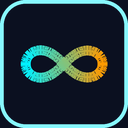
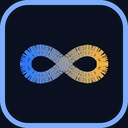
Add extension_signals DB table, icon32.png, /api/v1/signals/extension-ingest, and refresh ZIP package

Changed region(s): [[0.0, 0.0, 1.0, 1.0], [0.1562, 0.3438, 0.875, 0.6562]]

diff --git a/chrome-extension/content.js b/chrome-extension/content.js
@@ -37,18 +37,20 @@
       company: company || domain,
       event_type: eventType || "CHROME_DOMAIN_INTERCEPT",
       url: window.location.href,
-      intent_score: intentScore || 95
+      timestamp: new Date().toISOString(),
+      intent_score: intentScore || 95,
+      source: "chrome_extension"
     };
 
     try {
-      let res = await fetch(`${API_HOST}/api/v1/signals/capture-extension`, {
+      let res = await fetch(`${API_HOST}/api/v1/signals/extension-ingest`, {
         method: 'POST',
         headers: { 'Content-Type': 'application/json' },
         body: JSON.stringify(payload)
       }).catch(() => null);
 
       if (!res || !res.ok) {
-        res = await fetch(`${LOCAL_HOST}/api/v1/signals/capture-extension`, {
+        res = await fetch(`${LOCAL_HOST}/api/v1/signals/extension-ingest`, {
           method: 'POST',
           headers: { 'Content-Type': 'application/json' },
           body: JSON.stringify(payload)
@@ -104,7 +106,7 @@
             <button class="quanta-close-btn" id="quanta-close">&times;</button>
           </div>
           <div class="quanta-badge-body" style="color: #94A3B8;">
-            No QUANTA signals detected for <strong>${domain}</strong> yet.
+            No QUANTA signals for this domain yet.
           </div>
           <div class="quanta-badge-actions">
             <button class="quanta-btn-track" id="quanta-track-domain">
@@ -168,7 +170,7 @@
     const domain = getNormalizedDomain();
     if (!domain) return;
 
-    // Check if domain is in ignore list (e.g. google, bing, github)
+    // Check if domain is in ignore list (e.g. google, bing, yahoo)
     const ignoreList = ['google.com', 'bing.com', 'yahoo.com', 'quanta.virtusol.com'];
     if (ignoreList.some(i => domain.includes(i))) {
       return;

diff --git a/backend/app/main.py b/backend/app/main.py
@@ -9,8 +9,8 @@ from slowapi import Limiter, _rate_limit_exceeded_handler
 from slowapi.util import get_remote_address
 from slowapi.errors import RateLimitExceeded
 
-from app.models import LeadCreate, LeadResponse, SignalItem, AlertTestResponse, ChromeExtensionEvent
-from app.crm import init_db, get_db, create_crm_lead, get_all_leads
+from app.models import LeadCreate, LeadResponse, SignalItem, AlertTestResponse, ChromeExtensionEvent, ExtensionIngestPayload
+from app.crm import init_db, get_db, create_crm_lead, get_all_leads, create_extension_signal
 from app.signals import generate_live_signals, dispatch_high_intent_alerts
 from app.alerts import send_slack_alert
 from app.config import SLACK_WEBHOOK_URL
@@ -127,6 +127,49 @@ def get_intent_signals(domain: Optional[str] = None):
     """
     return generate_live_signals(domain=domain)
 
+@app.post("/api/v1/signals/extension-ingest")
+async def extension_ingest(
+    request: Request,
+    payload: ExtensionIngestPayload,
+    background_tasks: BackgroundTasks,
+    db: Session = Depends(get_db)
+):
+    """
+    Ingests Chrome extension signals directly into extension_signals table in quanta_crm.db
+    and triggers real-time Slack alerts for high intent events.
+    """
+    db_signal = create_extension_signal(db, payload)
+    
+    # Also record into leads table for CRM visibility
+    client_ip = request.headers.get("X-Forwarded-For") or request.client.host
+    if "," in client_ip:
+        client_ip = client_ip.split(",")[0].strip()
+    clean_domain = payload.domain.replace("www.", "").lower()
+    lead_data = LeadCreate(
+        name="Chrome Extension Intercept",
+        email=f"intent@{clean_domain}",
+        company=payload.company or f"Domain ({payload.domain})",
+        role="Active Extension Prospect",
+        website=payload.url or f"https://{payload.domain}",
+        country="Extension Stream",
+        phone=None,
+        problem_statement=f"Chrome Extension captured active intent on '{payload.domain}' [{payload.event_type}]",
+        struggle=f"Extension signal capture on {payload.domain}"
+    )
+    await create_crm_lead(db, lead_data, client_ip, request.headers.get("User-Agent", "QUANTA Chrome Extension"))
+
+    if payload.intent_score >= 90:
+        background_tasks.add_task(
+            send_slack_alert,
+            company=payload.company or f"Target Domain ({payload.domain})",
+            event_type=payload.event_type,
+            description=f"🎯 Chrome Extension captured intent on target domain '{payload.domain}' URL: {payload.url or 'N/A'}",
+            intent_score=payload.intent_score,
+            source_url=payload.url or f"https://{payload.domain}"
+        )
+        
+    return {"status": "ingested", "signal_id": db_signal.id, "domain": payload.domain}
+
 @app.post("/api/v1/signals/capture-extension")
 async def capture_extension_event(
     request: Request,
@@ -138,38 +181,15 @@ async def capture_extension_event(
     Ingests Chrome extension domain intercepts directly into quanta_crm.db
     and triggers real-time Slack alerts for high intent events.
     """
-    client_ip = request.headers.get("X-Forwarded-For") or request.client.host
-    if "," in client_ip:
-        client_ip = client_ip.split(",")[0].strip()
-    
-    comp_name = event.company or f"Target Domain ({event.domain})"
-    clean_domain = event.domain.replace("www.", "").lower()
-    
-    lead_data = LeadCreate(
-        name="Chrome Extension Intercept",
-        email=f"intent@{clean_domain}",
-        company=comp_name,
-        role="Active Prospect",
-        website=event.url or f"https://{event.domain}",
-        country="Extension Stream",
-        phone=None,
-        problem_statement=f"Chrome Extension captured real-time intent on '{event.domain}' [{event.event_type}]",
-        struggle=f"Extension signal capture on {event.domain}"
+    payload = ExtensionIngestPayload(
+        domain=event.domain,
+        url=event.url,
+        event_type=event.event_type,
+        intent_score=event.intent_score,
+        source="chrome_extension",
+        company=event.company
     )
-    
-    db_lead = await create_crm_lead(db, lead_data, client_ip, request.headers.get("User-Agent", "QUANTA Chrome Extension"))
-    
-    if event.intent_score >= 90:
-        background_tasks.add_task(
-            send_slack_alert,
-            company=comp_name,
-            event_type=event.event_type,
-            description=f"🎯 Chrome Extension captured intent on target domain '{event.domain}' URL: {event.url or 'N/A'}",
-            intent_score=event.intent_score,
-            source_url=event.url or f"https://{event.domain}"
-        )
-        
-    return {"status": "captured", "lead_id": db_lead.id, "domain": event.domain}
+    return await extension_ingest(request, payload, background_tasks, db)
 
 @app.post("/api/v1/signals/test-alert", response_model=AlertTestResponse)
 async def trigger_test_alert(company: str = "Demo Prospect Corp"):

diff --git a/generate_icons.py b/generate_icons.py
@@ -5,55 +5,55 @@ def draw_quanta_logo(size):
     # Create image with high resolution for anti-aliasing
     scale = 4
     canvas_size = size * scale
+    # Branding colors: #0B1020 (11, 16, 32), #2F7BFF (47, 123, 255), #F5B544 (245, 181, 68)
     img = Image.new("RGBA", (canvas_size, canvas_size), (11, 16, 32, 255))
     draw = ImageDraw.Draw(img)
 
     # Rounded background container
-    corner_radius = int(canvas_size * 0.2)
+    corner_radius = int(canvas_size * 0.22)
     draw.rounded_rectangle(
         [0, 0, canvas_size - 1, canvas_size - 1],
         radius=corner_radius,
         fill=(11, 16, 32, 255),
-        outline=(0, 240, 255, 120),
-        width=int(canvas_size * 0.03)
+        outline=(47, 123, 255, 160),
+        width=int(canvas_size * 0.04)
     )
 
     # Infinity loop parameters
     cx = canvas_size / 2
     cy = canvas_size / 2
     a = canvas_size * 0.30  # Scale factor for lemniscate of Bernoulli
-    stroke_width = max(2, int(canvas_size * 0.08))
+    stroke_width = max(2, int(canvas_size * 0.09))
 
     points = []
     num_samples = 400
     for i in range(num_samples):
         t = (2 * math.pi * i) / num_samples
-        # Lemniscate formula: x = a * cos(t) / (1 + sin^2(t)), y = a * sin(t) * cos(t) / (1 + sin^2(t))
         denom = 1 + math.sin(t) ** 2
         x = cx + (a * math.cos(t)) / denom
         y = cy + (a * math.sin(t) * math.cos(t)) / denom
         points.append((x, y, t))
 
-    # Draw gradient infinity curve
+    # Draw gradient infinity curve (#2F7BFF -> #F5B544)
     for i in range(len(points)):
         p1 = points[i]
         p2 = points[(i + 1) % len(points)]
 
-        # Calculate color gradient: left side (#00F0FF blue) -> right side (#FF9900 golden-orange)
         # Normalize x position relative to cx
         norm_x = (p1[0] - (cx - a)) / (2 * a)
         norm_x = max(0.0, min(1.0, norm_x))
 
-        r = int(0 * (1 - norm_x) + 255 * norm_x)
-        g = int(240 * (1 - norm_x) + 153 * norm_x)
-        b = int(255 * (1 - norm_x) + 0 * norm_x)
+        # Blue (#2F7BFF: 47, 123, 255) -> Amber (#F5B544: 245, 181, 68)
+        r = int(47 * (1 - norm_x) + 245 * norm_x)
+        g = int(123 * (1 - norm_x) + 181 * norm_x)
+        b = int(255 * (1 - norm_x) + 68 * norm_x)
 
         draw.line([p1[0], p1[1], p2[0], p2[1]], fill=(r, g, b, 255), width=stroke_width)
 
     # Downscale for crisp anti-aliasing
     return img.resize((size, size), Image.Resampling.LANCZOS)
 
-for sz in [16, 48, 128]:
+for sz in [16, 32, 48, 128]:
     icon = draw_quanta_logo(sz)
     icon.save(f"chrome-extension/icon{sz}.png")
     print(f"Generated chrome-extension/icon{sz}.png ({sz}x{sz})")

diff --git a/backend/app/models.py b/backend/app/models.py
@@ -32,6 +32,21 @@ class LeadDB(Base):
     status = Column(String(50), default="NEW_QUALIFIED")
     created_at = Column(DateTime, default=datetime.datetime.utcnow)
 
+class ExtensionSignalDB(Base):
+    """
+    SQLAlchemy ORM model for Chrome Extension Signals stored in quanta_crm.db under extension_signals table.
+    """
+    __tablename__ = "extension_signals"
+
+    id = Column(Integer, primary_key=True, index=True, autoincrement=True)
+    domain = Column(String(255), nullable=False, index=True)
+    url = Column(Text, nullable=True)
+    event_type = Column(String(100), default="CHROME_EXTENSION_INTERCEPT")
+    intent_score = Column(Integer, default=92)
+    source = Column(String(50), default="chrome_extension")
+    company = Column(String(255), nullable=True)
+    created_at = Column(DateTime, default=datetime.datetime.utcnow)
+
 class LeadCreate(BaseModel):
     name: str = Field(..., example="Alex Morgan")
     email: EmailStr = Field(..., example="alex@acmegrowth.com")
@@ -83,6 +98,15 @@ class ChromeExtensionEvent(BaseModel):
     event_type: str = "CHROME_EXTENSION_INTERCEPT"
     url: Optional[str] = None
     intent_score: int = 92
+
+class ExtensionIngestPayload(BaseModel):
+    domain: str
+    url: Optional[str] = None
+    timestamp: Optional[str] = None
+    event_type: str = "CHROME_EXTENSION_INTERCEPT"
+    intent_score: int = 92
+    source: str = "chrome_extension"
+    company: Optional[str] = None
 
 class AlertTestResponse(BaseModel):
     status: str

diff --git a/backend/app/crm.py b/backend/app/crm.py
@@ -4,7 +4,7 @@ from datetime import datetime
 from typing import List, Dict, Any
 from sqlalchemy import create_engine, text
 from sqlalchemy.orm import sessionmaker, Session
-from app.models import Base, LeadDB, LeadCreate, LeadResponse
+from app.models import Base, LeadDB, LeadCreate, LeadResponse, ExtensionSignalDB, ExtensionIngestPayload
 
 BASE_DIR = os.path.dirname(os.path.dirname(os.path.abspath(__file__)))
 DB_DIR = os.path.join(BASE_DIR, "db")
@@ -104,3 +104,17 @@ async def create_crm_lead(db: Session, lead_in: LeadCreate, ip_address: str, use
 
 def get_all_leads(db: Session, limit: int = 100) -> List[LeadDB]:
     return db.query(LeadDB).order_by(LeadDB.created_at.desc()).limit(limit).all()
+
+def create_extension_signal(db: Session, payload: ExtensionIngestPayload) -> ExtensionSignalDB:
+    db_signal = ExtensionSignalDB(
+        domain=payload.domain,
+        url=payload.url,
+        event_type=payload.event_type,
+        intent_score=payload.intent_score,
+        source=payload.source or "chrome_extension",
+        company=payload.company or f"Domain ({payload.domain})"
+    )
+    db.add(db_signal)
+    db.commit()
+    db.refresh(db_signal)
+    return db_signal
